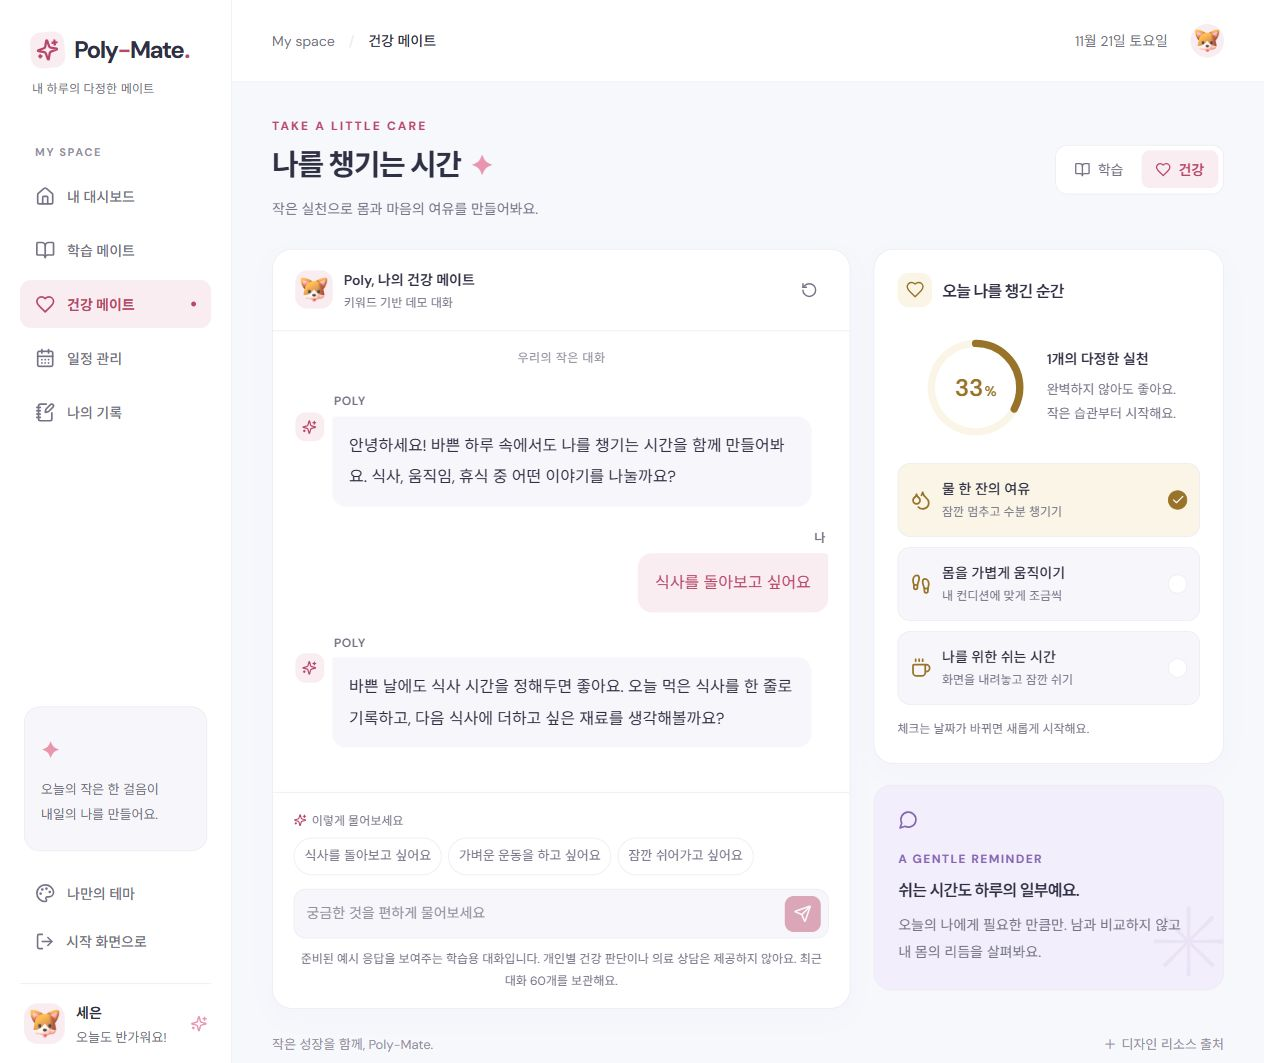
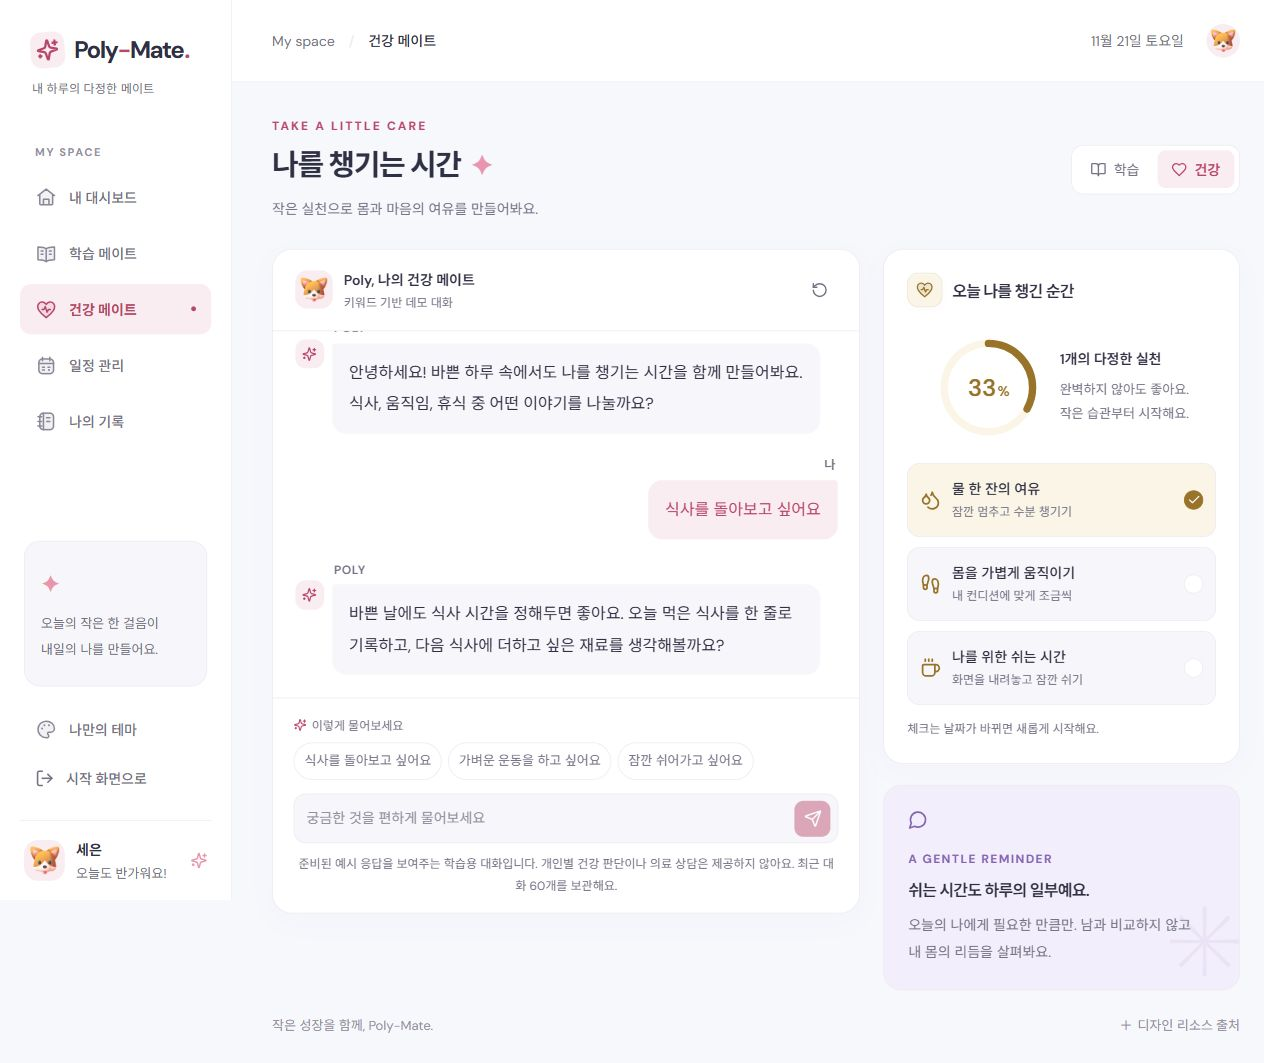
design: 메뉴와 카드 아이콘만 개선

diff --git a/src/components/Icons.jsx b/src/components/Icons.jsx
@@ -1,0 +1,125 @@
+const glyphs = {
+  home: (
+    <>
+      <path
+        d="m4 10 8-6 8 6v9a1 1 0 0 1-1 1H5a1 1 0 0 1-1-1Z"
+        fill="currentColor"
+        fillOpacity=".1"
+        stroke="none"
+      />
+      <path d="m3 10 9-7 9 7M5 9v10a1 1 0 0 0 1 1h12a1 1 0 0 0 1-1V9M9 20v-6h6v6" />
+    </>
+  ),
+  study: (
+    <>
+      <path
+        d="M3 5h5a5 5 0 0 1 4 2 5 5 0 0 1 4-2h5v14h-6a4 4 0 0 0-3 1 4 4 0 0 0-3-1H3Z"
+        fill="currentColor"
+        fillOpacity=".12"
+        stroke="none"
+      />
+      <path d="M12 7c-2-2-5-2-9-2v14c4 0 7 0 9 2 2-2 5-2 9-2V5c-4 0-7 0-9 2Zm0 0v14M6.5 9.5h2M6.5 13h2M15.5 9.5h2M15.5 13h2" />
+    </>
+  ),
+  schedule: (
+    <>
+      <rect
+        x="4"
+        y="6"
+        width="16"
+        height="15"
+        rx="4"
+        fill="currentColor"
+        fillOpacity=".12"
+        stroke="none"
+      />
+      <rect x="4" y="5" width="16" height="16" rx="4" />
+      <path d="M8 3v4M16 3v4M4 10h16M8 14h2M14 14h2M8 17h2" />
+      <circle cx="15" cy="17" r="1.1" fill="currentColor" stroke="none" />
+    </>
+  ),
+  health: (
+    <>
+      <path
+        d="M20 5.5c-2-2.5-6-2-8 1-2-3-6-3.5-8-1C.5 10 5 16 12 21c7-5 11.5-11 8-15.5Z"
+        fill="currentColor"
+        fillOpacity=".12"
+        stroke="none"
+      />
+      <path d="M20 5.5c-2-2.5-6-2-8 1-2-3-6-3.5-8-1C.5 10 5 16 12 21c7-5 11.5-11 8-15.5Z" />
+      <path d="M7.5 12h2l1.5-3 2 6 1.5-3h2" />
+    </>
+  ),
+  ideas: (
+    <>
+      <path
+        d="M8 16c0-2-3-3-3-7a7 7 0 1 1 14 0c0 4-3 5-3 7Z"
+        fill="currentColor"
+        fillOpacity=".12"
+        stroke="none"
+      />
+      <path d="M8 16c0-2-3-3-3-7a7 7 0 1 1 14 0c0 4-3 5-3 7M8 17h8M9 20h6M11 23h2M12 16v-5m-3-2 3 2 3-2" />
+    </>
+  ),
+  trips: (
+    <>
+      <path
+        d="m3 11 18-8-8 18-2-8Z"
+        fill="currentColor"
+        fillOpacity=".13"
+        stroke="none"
+      />
+      <path d="m3 11 18-8-8 18-2-8-8-2Zm8 2 5-5" />
+      <path d="m4 17-1 1m4 2-1 1" opacity=".6" />
+    </>
+  ),
+  diary: (
+    <>
+      <rect
+        x="5"
+        y="3"
+        width="15"
+        height="18"
+        rx="4"
+        fill="currentColor"
+        fillOpacity=".12"
+        stroke="none"
+      />
+      <rect x="5" y="3" width="15" height="18" rx="4" />
+      <path d="M9 3v18M3 7h4M3 12h4M3 17h4M12.5 8H16M12.5 12H16" />
+    </>
+  ),
+  themes: (
+    <>
+      <path
+        d="M12 3a9 9 0 0 0 0 18h1c2 0 2.5-2 1-3.5-1-1-.5-2.5 1-2.5h2a4 4 0 0 0 4-4c0-4.5-4-8-9-8Z"
+        fill="currentColor"
+        fillOpacity=".12"
+        stroke="none"
+      />
+      <path d="M12 3a9 9 0 0 0 0 18h1c2 0 2.5-2 1-3.5-1-1-.5-2.5 1-2.5h2a4 4 0 0 0 4-4c0-4.5-4-8-9-8Z" />
+      <circle cx="7.5" cy="11" r="1" fill="currentColor" stroke="none" />
+      <circle cx="10" cy="7.5" r="1" fill="currentColor" stroke="none" />
+      <circle cx="15" cy="7.5" r="1" fill="currentColor" stroke="none" />
+    </>
+  ),
+};
+
+export function CategoryGlyph({ name, size = 24, className = "" }) {
+  return (
+    <svg
+      width={size}
+      height={size}
+      className={`category-glyph ${className}`}
+      viewBox="0 0 24 24"
+      fill="none"
+      stroke="currentColor"
+      strokeWidth="1.65"
+      strokeLinecap="round"
+      strokeLinejoin="round"
+      aria-hidden="true"
+    >
+      {glyphs[name] || glyphs.home}
+    </svg>
+  );
+}

diff --git a/src/components/Layout.jsx b/src/components/Layout.jsx
@@ -1,14 +1,6 @@
-import {
-  Home,
-  BookOpen,
-  Heart,
-  Palette,
-  NotebookPen,
-  LogOut,
-  Sparkles,
-  CalendarDays,
-} from "lucide-react";
+import { LogOut, Sparkles } from "lucide-react";
 import { Brand, Credits, Mascot } from "./UI.jsx";
+import { CategoryGlyph } from "./Icons.jsx";
 import { useClock } from "../lib/hooks.js";
 
 export default function Layout({ data, route, openModal, children, onLogout }) {
@@ -17,19 +9,19 @@ export default function Layout({ data, route, openModal, children, onLogout }) {
     {
       href: "/dashboard",
       label: "내 대시보드",
-      icon: Home,
+      icon: "home",
       active: route.path === "/dashboard",
     },
     {
       href: "/learning?topic=study",
       label: "학습 메이트",
-      icon: BookOpen,
+      icon: "study",
       active: route.path === "/learning" && route.topic === "study",
     },
     {
       href: "/learning?topic=health",
       label: "건강 메이트",
-      icon: Heart,
+      icon: "health",
       active: route.path === "/learning" && route.topic === "health",
     },
   ];
@@ -50,24 +42,24 @@ export default function Layout({ data, route, openModal, children, onLogout }) {
         <p className="sidebar-caption">내 하루의 다정한 메이트</p>
         <div className="nav-label">MY SPACE</div>
         <nav aria-label="주요 메뉴">
-          {links.map(({ href, label, icon: Icon, active }) => (
+          {links.map(({ href, label, icon, active }) => (
             <a
               key={href}
               href={`#${href}`}
               className={`nav-item ${active ? "active" : ""}`}
               aria-current={active ? "page" : undefined}
             >
-              <Icon size={20} />
+              <CategoryGlyph name={icon} size={22} />
               {label}
               {active && <span className="nav-active-dot" />}
             </a>
           ))}
           <button className="nav-item" onClick={() => openModal("schedule")}>
-            <CalendarDays size={20} />
+            <CategoryGlyph name="schedule" size={22} />
             일정 관리
           </button>
           <button className="nav-item" onClick={() => openModal("diary")}>
-            <NotebookPen size={20} />
+            <CategoryGlyph name="diary" size={22} />
             나의 기록
           </button>
         </nav>
@@ -85,7 +77,7 @@ export default function Layout({ data, route, openModal, children, onLogout }) {
             className={`nav-item ${route.path === "/themes" ? "active" : ""}`}
             aria-current={route.path === "/themes" ? "page" : undefined}
           >
-            <Palette size={20} />
+            <CategoryGlyph name="themes" size={22} />
             나만의 테마
           </a>
           <button className="nav-item" onClick={onLogout}>

diff --git a/src/pages/StartPage.jsx b/src/pages/StartPage.jsx
@@ -1,13 +1,6 @@
-import {
-  BookOpen,
-  CalendarDays,
-  Heart,
-  Sparkles,
-  Check,
-  ShieldCheck,
-  Palette,
-} from "lucide-react";
+import { Sparkles, Check, ShieldCheck } from "lucide-react";
 import { Brand, Mascot, FeatureIcon, Credits } from "../components/UI.jsx";
+import { CategoryGlyph } from "../components/Icons.jsx";
 
 export default function StartPage({ onGuest, name }) {
   return (
@@ -63,7 +56,7 @@ export default function StartPage({ onGuest, name }) {
           </div>
           <div className="floating-note note-study">
             <span className="note-icon rose">
-              <BookOpen size={22} />
+              <CategoryGlyph name="study" size={24} />
             </span>
             <div>
               <strong>한 걸음씩 배우는 중</strong>
@@ -75,7 +68,7 @@ export default function StartPage({ onGuest, name }) {
           </div>
           <div className="floating-note note-schedule">
             <span className="note-icon blue">
-              <CalendarDays size={22} />
+              <CategoryGlyph name="schedule" size={24} />
             </span>
             <div>
               <small>오늘의 작은 약속</small>
@@ -85,7 +78,7 @@ export default function StartPage({ onGuest, name }) {
             </div>
           </div>
           <div className="floating-note note-health">
-            <Heart size={22} />
+            <CategoryGlyph name="health" size={23} />
             <span>쉬어가도 괜찮아.</span>
           </div>
           <div className="scene-label">your everyday companion</div>
@@ -108,7 +101,7 @@ export default function StartPage({ onGuest, name }) {
         </div>
         <div>
           <span className="feature-icon themes">
-            <Palette size={24} />
+            <CategoryGlyph name="themes" size={24} />
           </span>
           <span>
             <strong>나를 닮은 세 가지 테마</strong>

diff --git a/src/components/UI.jsx b/src/components/UI.jsx
@@ -1,15 +1,6 @@
 import { useEffect, useId, useRef } from "react";
-import {
-  X,
-  Check,
-  Sparkles,
-  BookOpen,
-  CalendarDays,
-  Heart,
-  Lightbulb,
-  Plane,
-  NotebookPen,
-} from "lucide-react";
+import { X, Check, Sparkles } from "lucide-react";
+import { CategoryGlyph } from "./Icons.jsx";
 
 export const asset = (name) => `${import.meta.env.BASE_URL}images/${name}`;
 export function Mascot({ className = "" }) {
@@ -38,19 +29,10 @@ export function Brand({ light = false }) {
     </a>
   );
 }
-export const featureIcons = {
-  study: BookOpen,
-  schedule: CalendarDays,
-  health: Heart,
-  ideas: Lightbulb,
-  trips: Plane,
-  diary: NotebookPen,
-};
 export function FeatureIcon({ name, size = 24 }) {
-  const Icon = featureIcons[name] || Sparkles;
   return (
     <span className={`feature-icon ${name}`}>
-      <Icon size={size} strokeWidth={1.8} aria-hidden="true" />
+      <CategoryGlyph name={name} size={size} />
     </span>
   );
 }

diff --git a/src/icons.css b/src/icons.css
@@ -1,0 +1,35 @@
+.category-glyph {
+  overflow: visible;
+}
+.feature-icon {
+  width: 46px;
+  height: 46px;
+  border-radius: 16px;
+  border: 1px solid color-mix(in srgb, currentColor 12%, transparent);
+  background-image: linear-gradient(145deg, #ffffff6b, #ffffff00 75%);
+  box-shadow:
+    inset 0 1px 0 #ffffff9c,
+    0 3px 7px #4e3b5704;
+}
+[data-theme="space"] .feature-icon {
+  background-image: linear-gradient(145deg, #ffffff08, #ffffff00 75%);
+  box-shadow: inset 0 1px 0 #ffffff09;
+}
+.nav-item > .category-glyph {
+  opacity: 0.85;
+  transition: opacity 0.2s ease;
+}
+.nav-item.active > .category-glyph,
+.nav-item:hover > .category-glyph {
+  opacity: 1;
+}
+.note-icon {
+  border: 1px solid color-mix(in srgb, currentColor 12%, transparent);
+}
+@media (max-width: 760px) {
+  .feature-icon {
+    width: 40px;
+    height: 40px;
+    border-radius: 14px;
+  }
+}

diff --git a/src/main.jsx b/src/main.jsx
@@ -2,6 +2,7 @@ import React from "react";
 import { createRoot } from "react-dom/client";
 import App from "./App.jsx";
 import "./styles.css";
+import "./icons.css";
 
 createRoot(document.getElementById("root")).render(
   <React.StrictMode>
